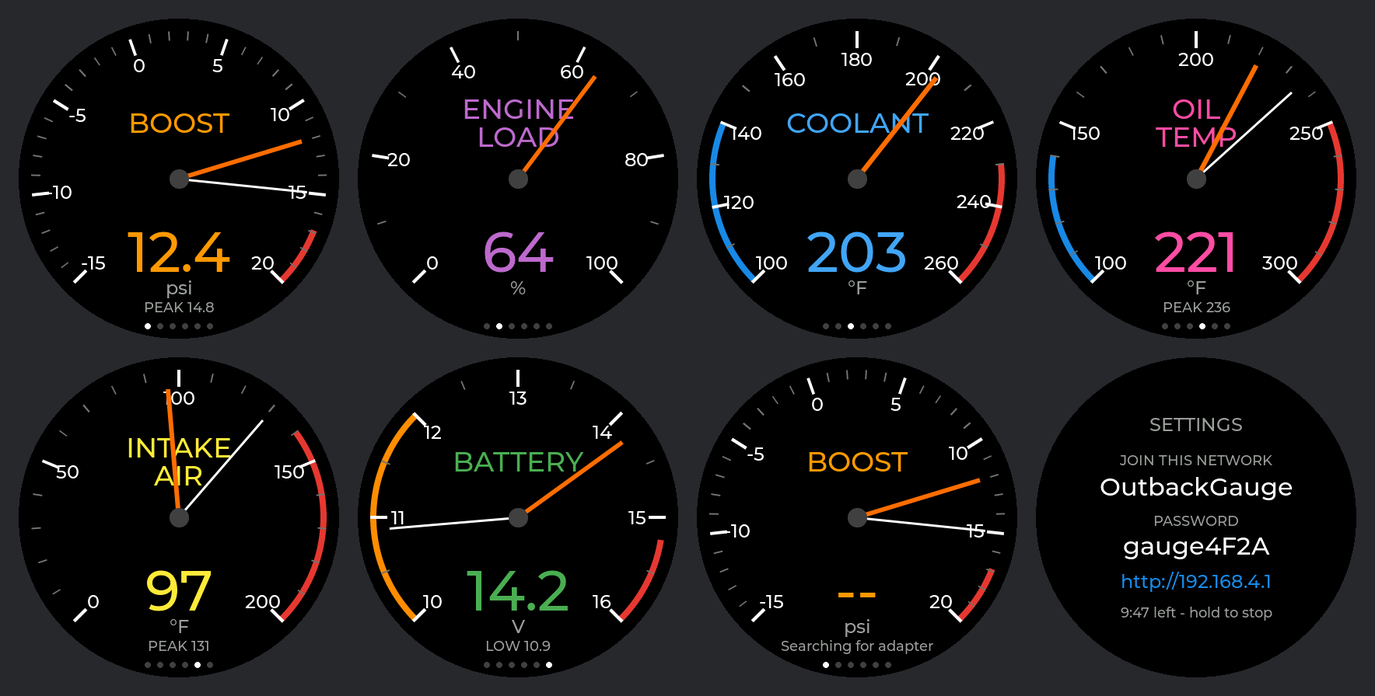
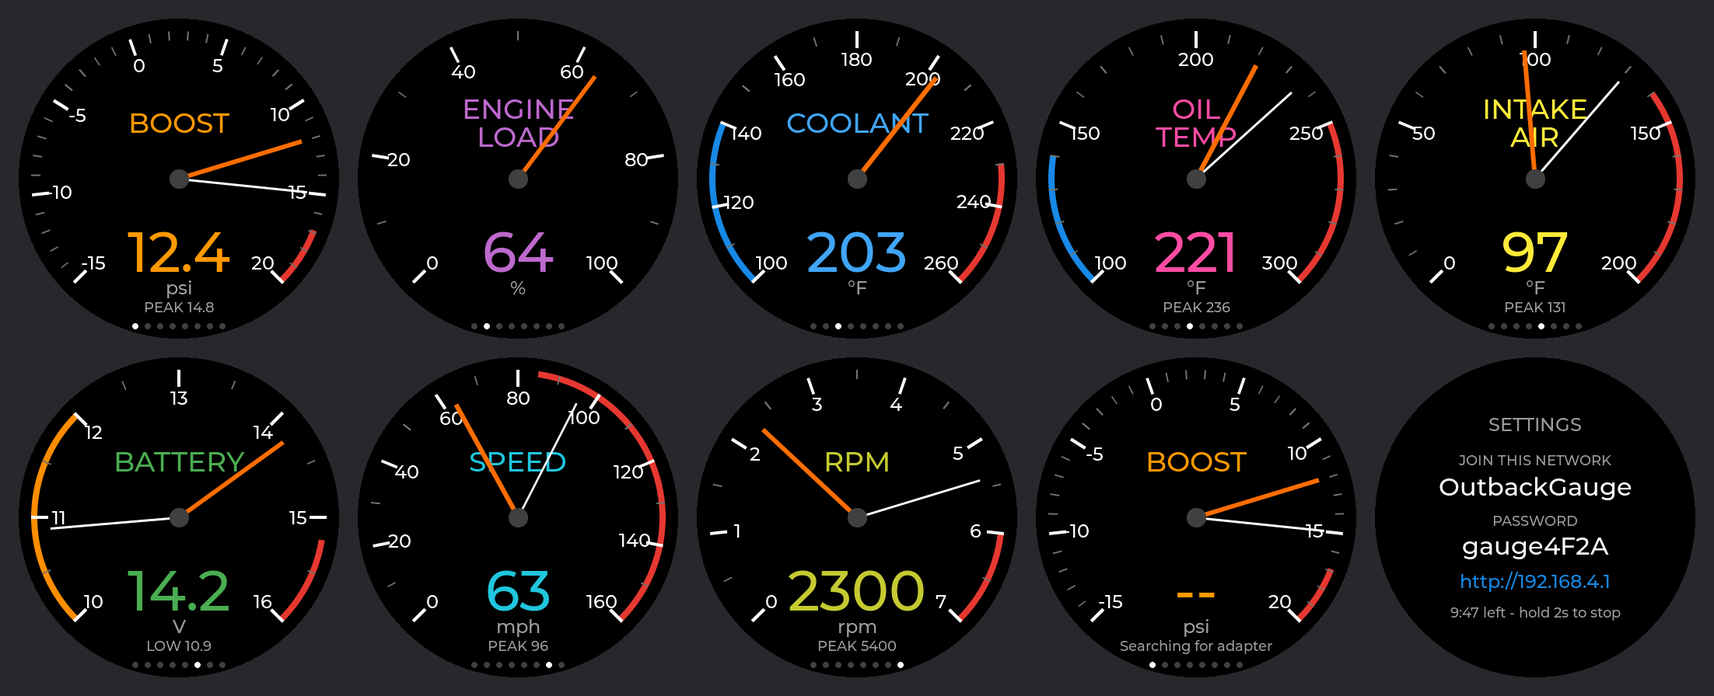
Add speed and tachometer pages with peak needles and warning limits
Speed (PID 0x0D, mph) and rpm (0x0C, scale in thousands) join the rotation
after battery. Both track a peak that survives a reboot, and carry a
settable warning limit (85 mph, 6000 rpm by default). Settings saved before
the limits existed still load; the new gauges start out shown.

diff --git a/docs/settings-page.html b/docs/settings-page.html
@@ -1,1 +1,1 @@
-<!doctype html><html><head><meta charset=utf-8><meta name=viewport content='width=device-width,initial-scale=1'><title>Outback Gauge</title><style>*{box-sizing:border-box}body{margin:0;padding:18px;background:#111;color:#eee;font:16px/1.4 -apple-system,system-ui,Roboto,sans-serif}main{max-width:30rem;margin:0 auto}h1{font-size:1.25rem;margin:0}p.sub{margin:.2rem 0 1.4rem;color:#888;font-size:.85rem}h2{font-size:.72rem;text-transform:uppercase;letter-spacing:.09em;color:#888;margin:1.6rem 0 .3rem;border-bottom:1px solid #2a2a2a;padding-bottom:.4rem}label{display:flex;align-items:center;gap:.75rem;padding:.5rem 0}label span{flex:1}label em{color:#777;font-style:normal;font-size:.8rem;min-width:2.4rem}input[type=number]{width:5.5rem;padding:.5rem;background:#1c1c1c;border:1px solid #333;border-radius:6px;color:#fff;font-size:1rem;text-align:right}select{padding:.5rem;background:#1c1c1c;border:1px solid #333;border-radius:6px;color:#fff;font-size:1rem}input[type=range]{flex:1;accent-color:#FF6D00}table{width:100%;border-collapse:collapse;margin-top:.3rem}th{font-size:.7rem;font-weight:400;text-transform:uppercase;letter-spacing:.06em;color:#888;text-align:center;padding:.3rem .25rem}th:first-child,td:first-child{text-align:left}td{padding:.45rem .25rem;border-top:1px solid #222;text-align:center;vertical-align:middle}td input[type=number]{width:4.6rem;padding:.4rem}td input[type=radio]{width:1.35rem;height:1.35rem;accent-color:#FF6D00}.lim{display:flex;align-items:center;justify-content:center;gap:.3rem;margin:.15rem 0}.lim em{min-width:1.6rem;text-align:left;white-space:nowrap}td input[type=number]{width:4.2rem}.none{color:#555}td input:disabled{opacity:.25}button.ghost.arm{background:#7a2c2c;color:#fff;border-color:#a33}#toast{position:fixed;left:50%;bottom:1.2rem;transform:translateX(-50%);padding:.7rem 1.3rem;border-radius:8px;background:#14301b;border:1px solid #2c5c38;color:#a9e0bb;display:none;z-index:9;box-shadow:0 4px 18px #000a}#toast.bad{background:#3a1616;border-color:#7a2c2c;color:#f2b2b2}input[type=checkbox]{width:1.35rem;height:1.35rem;accent-color:#FF6D00}button{width:100%;padding:.85rem;margin-top:1.2rem;border:0;border-radius:8px;background:#FF6D00;color:#111;font-size:1rem;font-weight:600}button.ghost{background:#1c1c1c;color:#ccc;border:1px solid #333;font-weight:400;margin-top:.5rem}.note{background:#14301b;border:1px solid #2c5c38;color:#a9e0bb;padding:.6rem .8rem;border-radius:6px;margin-bottom:1.2rem;font-size:.9rem}.warn{color:#FB8C00;font-size:.78rem;margin:.5rem 0 0}</style></head><body><main><h1>Outback Gauge</h1><p class=sub>Settings are saved on the gauge and survive a reboot.</p><div class=note>Saved.</div><form method=POST action=/save data-toast="Saved"><h2>Gauges</h2><table><tr><th>Gauge<th>Warns at<th>Show<th>Start on</tr><tr data-g><td>Boost<td><span class=lim><input type=number name=boost min=0 max=20 step=0.5 value=17.0><em>psi</em></span><td><input type=checkbox name=pg0 checked><td><input type=radio name=start value=0 checked></tr><tr data-g><td>Engine load<td><span class=none>none</span><td><input type=checkbox name=pg1 checked><td><input type=radio name=start value=1></tr><tr data-g><td>Coolant<td><span class=lim><input type=number name=cool min=150 max=260 step=1 value=230><em>&deg;F</em></span><td><input type=checkbox name=pg2 checked><td><input type=radio name=start value=2></tr><tr data-g><td>Oil temperature<td><span class=lim><input type=number name=oil min=180 max=300 step=1 value=250><em>&deg;F</em></span><td><input type=checkbox name=pg3 checked><td><input type=radio name=start value=3></tr><tr data-g><td>Intake air<td><span class=lim><input type=number name=intake min=60 max=200 step=1 value=140><em>&deg;F</em></span><td><input type=checkbox name=pg4 checked><td><input type=radio name=start value=4></tr><tr data-g><td>Battery<td><span class=lim><input type=number name=vlo min=10 max=14 step=0.1 value=12.0><em>V lo</em></span><span class=lim><input type=number name=vhi min=13 max=16 step=0.1 value=15.2><em>V hi</em></span><td><input type=checkbox name=pg5 checked><td><input type=radio name=start value=5></tr><tr><td colspan=3>The last one I tapped to<td><input type=radio name=start value=255></tr></table><p class=warn>Unticked gauges are never shown, not even for a warning. The start gauge falls back to the first one shown if you hide it.</p><h2>Rotation</h2><label class=chk><input type=checkbox name=auto checked><span>Cycle through the gauges</span></label><label><span>Seconds per gauge</span><input type=number name=secs min=1 max=60 step=0.5 value=3.0><em>s</em></label><p class=warn>Tap the screen to move on early. Hold to open this page.</p><h2>Display</h2><label><span>Backlight</span><input type=range name=bl min=5 max=100 step=5 value=80 oninput="this.nextElementSibling.textContent=this.value+'%'"><em>80%</em></label><button>Save</button></form><form method=POST action=/defaults data-toast="Defaults restored" data-ask="Tap again to restore defaults" data-confirm="Put every setting back to its default?"><button class=ghost>Restore defaults</button></form><form method=POST action=/reboot data-ask="Tap again to reboot" data-confirm="Reboot the gauge? The Wi-Fi drops, so hold the screen to bring it back."><button class=ghost>Reboot the gauge</button></form><form method=POST action=/stop data-ask="Tap again to turn Wi-Fi off" data-confirm="Turn Wi-Fi off? Hold the screen to bring it back."><button class=ghost>Turn Wi-Fi off</button></form></main><div id=toast></div><script>function sync(){var rows=document.querySelectorAll('tr[data-g]'),on=0,pick=null;rows.forEach(function(r){var c=r.querySelector('input[type=checkbox]'),d=r.querySelector('input[type=radio]');d.disabled=!c.checked;if(c.checked){on++;if(!pick)pick=d}if(d.disabled&&d.checked){d.checked=false;if(pick)pick.checked=true}});var sel=document.querySelector('input[name=start]:checked');if(!sel){(pick||document.querySelector('input[name=start]:not(:disabled)')).checked=true}}function toast(t,bad){var e=document.getElementById('toast');e.textContent=t;e.className=bad?'bad':'';e.style.display='block';clearTimeout(toast.t);toast.t=setTimeout(function(){e.style.display='none'},3000)}document.addEventListener('change',function(e){if(e.target.type=='checkbox'&&e.target.name&&e.target.name.indexOf('pg')==0){if(!document.querySelector('input[name^=pg]:checked'))e.target.checked=true;sync()}});function disarm(f){var b=f.querySelector('button');if(f.armed){f.armed=0;b.textContent=b.getAttribute('data-t');b.className='ghost';if(f.m)f.m.remove()}}document.addEventListener('submit',function(e){var f=e.target,c=f.getAttribute('data-confirm');if(c){var b=f.querySelector('button');if(!f.armed){e.preventDefault();f.armed=1;b.setAttribute('data-t',b.textContent);b.textContent=f.getAttribute('data-ask');b.className='ghost arm';var m=document.createElement('p');m.className='warn';m.textContent=c;f.appendChild(m);f.m=m;clearTimeout(f.t);f.t=setTimeout(function(){disarm(f)},5000);return}clearTimeout(f.t);if(f.m)f.m.remove()}var t=f.getAttribute('data-toast');if(!t)return;e.preventDefault();fetch(f.action,{method:'POST',body:new URLSearchParams(new FormData(f))}).then(function(r){return r.text()}).then(function(h){var y=scrollY;document.body.innerHTML=new DOMParser().parseFromString(h,'text/html').body.innerHTML;var n=document.querySelector('.note');if(n)n.remove();sync();scrollTo(0,y);toast(t)}).catch(function(){toast('Could not reach the gauge',1)})});sync();</script></body></html>
+<!doctype html><html><head><meta charset=utf-8><meta name=viewport content='width=device-width,initial-scale=1'><title>Outback Gauge</title><style>*{box-sizing:border-box}body{margin:0;padding:18px;background:#111;color:#eee;font:16px/1.4 -apple-system,system-ui,Roboto,sans-serif}main{max-width:30rem;margin:0 auto}h1{font-size:1.25rem;margin:0}p.sub{margin:.2rem 0 1.4rem;color:#888;font-size:.85rem}h2{font-size:.72rem;text-transform:uppercase;letter-spacing:.09em;color:#888;margin:1.6rem 0 .3rem;border-bottom:1px solid #2a2a2a;padding-bottom:.4rem}label{display:flex;align-items:center;gap:.75rem;padding:.5rem 0}label span{flex:1}label em{color:#777;font-style:normal;font-size:.8rem;min-width:2.4rem}input[type=number]{width:5.5rem;padding:.5rem;background:#1c1c1c;border:1px solid #333;border-radius:6px;color:#fff;font-size:1rem;text-align:right}select{padding:.5rem;background:#1c1c1c;border:1px solid #333;border-radius:6px;color:#fff;font-size:1rem}input[type=range]{flex:1;accent-color:#FF6D00}table{width:100%;border-collapse:collapse;margin-top:.3rem}th{font-size:.7rem;font-weight:400;text-transform:uppercase;letter-spacing:.06em;color:#888;text-align:center;padding:.3rem .25rem}th:first-child,td:first-child{text-align:left}td{padding:.45rem .25rem;border-top:1px solid #222;text-align:center;vertical-align:middle}td input[type=number]{width:4.6rem;padding:.4rem}td input[type=radio]{width:1.35rem;height:1.35rem;accent-color:#FF6D00}.lim{display:flex;align-items:center;justify-content:center;gap:.3rem;margin:.15rem 0}.lim em{min-width:1.6rem;text-align:left;white-space:nowrap}td input[type=number]{width:4.2rem}.none{color:#555}td input:disabled{opacity:.25}button.ghost.arm{background:#7a2c2c;color:#fff;border-color:#a33}#toast{position:fixed;left:50%;bottom:1.2rem;transform:translateX(-50%);padding:.7rem 1.3rem;border-radius:8px;background:#14301b;border:1px solid #2c5c38;color:#a9e0bb;display:none;z-index:9;box-shadow:0 4px 18px #000a}#toast.bad{background:#3a1616;border-color:#7a2c2c;color:#f2b2b2}input[type=checkbox]{width:1.35rem;height:1.35rem;accent-color:#FF6D00}button{width:100%;padding:.85rem;margin-top:1.2rem;border:0;border-radius:8px;background:#FF6D00;color:#111;font-size:1rem;font-weight:600}button.ghost{background:#1c1c1c;color:#ccc;border:1px solid #333;font-weight:400;margin-top:.5rem}.note{background:#14301b;border:1px solid #2c5c38;color:#a9e0bb;padding:.6rem .8rem;border-radius:6px;margin-bottom:1.2rem;font-size:.9rem}.warn{color:#FB8C00;font-size:.78rem;margin:.5rem 0 0}</style></head><body><main><h1>Outback Gauge</h1><p class=sub>Settings are saved on the gauge and survive a reboot.</p><div class=note>Saved.</div><form method=POST action=/save data-toast="Saved"><h2>Gauges</h2><table><tr><th>Gauge<th>Warns at<th>Show<th>Start on</tr><tr data-g><td>Boost<td><span class=lim><input type=number name=boost min=0 max=20 step=0.5 value=17.0><em>psi</em></span><td><input type=checkbox name=pg0 checked><td><input type=radio name=start value=0 checked></tr><tr data-g><td>Engine load<td><span class=none>none</span><td><input type=checkbox name=pg1 checked><td><input type=radio name=start value=1></tr><tr data-g><td>Coolant<td><span class=lim><input type=number name=cool min=150 max=260 step=1 value=230><em>&deg;F</em></span><td><input type=checkbox name=pg2 checked><td><input type=radio name=start value=2></tr><tr data-g><td>Oil temperature<td><span class=lim><input type=number name=oil min=180 max=300 step=1 value=250><em>&deg;F</em></span><td><input type=checkbox name=pg3 checked><td><input type=radio name=start value=3></tr><tr data-g><td>Intake air<td><span class=lim><input type=number name=intake min=60 max=200 step=1 value=140><em>&deg;F</em></span><td><input type=checkbox name=pg4 checked><td><input type=radio name=start value=4></tr><tr data-g><td>Battery<td><span class=lim><input type=number name=vlo min=10 max=14 step=0.1 value=12.0><em>V lo</em></span><span class=lim><input type=number name=vhi min=13 max=16 step=0.1 value=15.2><em>V hi</em></span><td><input type=checkbox name=pg5 checked><td><input type=radio name=start value=5></tr><tr data-g><td>Speed<td><span class=lim><input type=number name=speed min=20 max=160 step=1 value=85><em>mph</em></span><td><input type=checkbox name=pg6 checked><td><input type=radio name=start value=6></tr><tr data-g><td>Tachometer<td><span class=lim><input type=number name=rpm min=3000 max=7000 step=100 value=6000><em>rpm</em></span><td><input type=checkbox name=pg7 checked><td><input type=radio name=start value=7></tr><tr><td colspan=3>The last one I tapped to<td><input type=radio name=start value=255></tr></table><p class=warn>Unticked gauges are never shown, not even for a warning. The start gauge falls back to the first one shown if you hide it.</p><h2>Rotation</h2><label class=chk><input type=checkbox name=auto checked><span>Cycle through the gauges</span></label><label><span>Seconds per gauge</span><input type=number name=secs min=1 max=60 step=0.5 value=3.0><em>s</em></label><p class=warn>Tap the screen to move on early. Hold for 2 seconds to open this page.</p><h2>Display</h2><label><span>Backlight</span><input type=range name=bl min=5 max=100 step=5 value=80 oninput="this.nextElementSibling.textContent=this.value+'%'"><em>80%</em></label><button>Save</button></form><form method=POST action=/defaults data-toast="Defaults restored" data-ask="Tap again to restore defaults" data-confirm="Put every setting back to its default?"><button class=ghost>Restore defaults</button></form><form method=POST action=/reboot data-ask="Tap again to reboot" data-confirm="Reboot the gauge? The Wi-Fi drops, so hold the screen for 2 seconds to bring it back."><button class=ghost>Reboot the gauge</button></form><form method=POST action=/stop data-ask="Tap again to turn Wi-Fi off" data-confirm="Turn Wi-Fi off? Hold the screen to bring it back."><button class=ghost>Turn Wi-Fi off</button></form></main><div id=toast></div><script>function sync(){var rows=document.querySelectorAll('tr[data-g]'),on=0,pick=null;rows.forEach(function(r){var c=r.querySelector('input[type=checkbox]'),d=r.querySelector('input[type=radio]');d.disabled=!c.checked;if(c.checked){on++;if(!pick)pick=d}if(d.disabled&&d.checked){d.checked=false;if(pick)pick.checked=true}});var sel=document.querySelector('input[name=start]:checked');if(!sel){(pick||document.querySelector('input[name=start]:not(:disabled)')).checked=true}}function toast(t,bad){var e=document.getElementById('toast');e.textContent=t;e.className=bad?'bad':'';e.style.display='block';clearTimeout(toast.t);toast.t=setTimeout(function(){e.style.display='none'},3000)}document.addEventListener('change',function(e){if(e.target.type=='checkbox'&&e.target.name&&e.target.name.indexOf('pg')==0){if(!document.querySelector('input[name^=pg]:checked'))e.target.checked=true;sync()}});function disarm(f){var b=f.querySelector('button');if(f.armed){f.armed=0;b.textContent=b.getAttribute('data-t');b.className='ghost';if(f.m)f.m.remove()}}document.addEventListener('submit',function(e){var f=e.target,c=f.getAttribute('data-confirm');if(c){var b=f.querySelector('button');if(!f.armed){e.preventDefault();f.armed=1;b.setAttribute('data-t',b.textContent);b.textContent=f.getAttribute('data-ask');b.className='ghost arm';var m=document.createElement('p');m.className='warn';m.textContent=c;f.appendChild(m);f.m=m;clearTimeout(f.t);f.t=setTimeout(function(){disarm(f)},5000);return}clearTimeout(f.t);if(f.m)f.m.remove()}var t=f.getAttribute('data-toast');if(!t)return;e.preventDefault();fetch(f.action,{method:'POST',body:new URLSearchParams(new FormData(f))}).then(function(r){return r.text()}).then(function(h){var y=scrollY;document.body.innerHTML=new DOMParser().parseFromString(h,'text/html').body.innerHTML;var n=document.querySelector('.note');if(n)n.remove();sync();scrollTo(0,y);toast(t)}).catch(function(){toast('Could not reach the gauge',1)})});sync();</script></body></html>

diff --git a/src/ui.cpp b/src/ui.cpp
@@ -18,7 +18,7 @@ namespace {
 constexpr lv_coord_t C = LCD_SIZE / 2;  // screen center
 constexpr uint32_t WHITE = 0xFFFFFF, GREY = 0x9E9E9E, RED = 0xE53935, AMBER = 0xFB8C00, BLUE = 0x1E88E5;
 constexpr uint32_t TEXT_GREEN = 0x4CAF50, TEXT_ORANGE = 0xFF9800, TEXT_BLUE = 0x42A5F5, TEXT_PINK = 0xFF4FA3,
-                   TEXT_YELLOW = 0xFFEB3B, TEXT_PURPLE = 0xBA68C8;
+                   TEXT_YELLOW = 0xFFEB3B, TEXT_PURPLE = 0xBA68C8, TEXT_TEAL = 0x26C6DA, TEXT_LIME = 0xC0CA33;
 #define DEG "\xC2\xB0"
 
 // A coloured arc on the scale. One endpoint can be driven by a setting, so the
@@ -45,6 +45,8 @@ const GaugeCfg LOAD = {"ENGINE\nLOAD", "%", "%.0f", 0, 100, 1, 11, 2, {{}, {}}, 
 const GaugeCfg COOLANT = {"COOLANT", DEG "F", "%.0f", 100, 260, 1, 17, 2, {{100, 140, BLUE}, {0, 260, RED, &Settings::coolantWarnF}}, Focus::Coolant, TEXT_BLUE, 0};
 const GaugeCfg OIL = {"OIL\nTEMP", DEG "F", "%.0f", 100, 300, 1, 21, 5, {{100, 140, BLUE}, {0, 300, RED, &Settings::oilWarnF}}, Focus::Oil, TEXT_PINK, 1};
 const GaugeCfg INTAKE = {"INTAKE\nAIR", DEG "F", "%.0f", 0, 200, 1, 21, 5, {{0, 200, RED, &Settings::intakeWarnF}, {}}, Focus::Intake, TEXT_YELLOW, 1};
+const GaugeCfg SPEED = {"SPEED", "mph", "%.0f", 0, 160, 1, 17, 2, {{0, 160, RED, &Settings::speedWarnMph}, {}}, Focus::Speed, TEXT_TEAL, 1};
+const GaugeCfg TACH = {"RPM", "rpm", "%.0f", 0, 7000, 1, 15, 2, {{0, 7000, RED, &Settings::rpmWarn}, {}}, Focus::Rpm, TEXT_LIME, 1};
 const GaugeCfg VOLTS = {"BATTERY", "V", "%.1f", 10, 16, 10, 13, 2, {{10, 0, AMBER, &Settings::voltsLowWarn, false}, {0, 16, RED, &Settings::voltsHighWarn}}, Focus::Volts, TEXT_GREEN, -1};
 
 struct Gauge {
@@ -59,7 +61,7 @@ struct SettingsPage {
   lv_obj_t *screen, *caption, *headline, *caption2, *detail, *url, *foot;
 };
 
-enum : uint8_t { PAGE_BOOST, PAGE_LOAD, PAGE_COOLANT, PAGE_OIL, PAGE_INTAKE, PAGE_VOLTS, PAGE_COUNT, PAGE_SETTINGS = PAGE_COUNT };
+enum : uint8_t { PAGE_BOOST, PAGE_LOAD, PAGE_COOLANT, PAGE_OIL, PAGE_INTAKE, PAGE_VOLTS, PAGE_SPEED, PAGE_TACH, PAGE_COUNT, PAGE_SETTINGS = PAGE_COUNT };
 
 Gauge gauges[PAGE_COUNT];
 SettingsPage settingsPage;
@@ -131,7 +133,7 @@ const char *statusFor(const Telemetry &t, char *buf, size_t n) {
 
 // ---- round gauges ----------------------------------------------------------
 
-// The meter only knows integers, so scales with mul > 1 relabel their ticks.
+// The meter only knows integers, so scales with mul > 1 relabel their ticks; so does the tach, in thousands.
 // LVGL 8.3 leaves text_length at 0 for meter ticks, so point the label at our
 // own buffer instead of writing into theirs; it's drawn before the next tick.
 void scaledTickLabels(lv_event_t *e) {
@@ -139,7 +141,8 @@ void scaledTickLabels(lv_event_t *e) {
   auto *cfg = (const GaugeCfg *)lv_event_get_user_data(e);
   if (dsc->class_p != &lv_meter_class || dsc->type != LV_METER_DRAW_PART_TICK || !dsc->text) return;
   static char buf[8];
-  lv_snprintf(buf, sizeof buf, "%d", (int)(dsc->value / cfg->mul));
+  const int div = cfg->max >= 1000 ? 1000 : cfg->mul;   // rpm is labelled in thousands
+  lv_snprintf(buf, sizeof buf, "%d", (int)(dsc->value / div));
   dsc->text = buf;
 }
 
@@ -197,7 +200,7 @@ Gauge makeGauge(const GaugeCfg &cfg) {
   }
   g.needle = lv_meter_add_needle_line(g.meter, scale, 6, lv_color_hex(0xFF6D00), -24);
   lv_meter_set_indicator_value(g.meter, g.needle, cfg.min * cfg.mul);
-  if (cfg.mul > 1) lv_obj_add_event_cb(g.meter, scaledTickLabels, LV_EVENT_DRAW_PART_BEGIN, (void *)&cfg);
+  if (cfg.mul > 1 || cfg.max >= 1000) lv_obj_add_event_cb(g.meter, scaledTickLabels, LV_EVENT_DRAW_PART_BEGIN, (void *)&cfg);
 
   g.value = label(g.screen, &font_big, WHITE, 0, 94);
   lv_label_set_text(label(g.screen, &lv_font_montserrat_24, GREY, 0, 140), cfg.unit);
@@ -332,6 +335,8 @@ void ui_init() {
   gauges[PAGE_OIL] = makeGauge(OIL);
   gauges[PAGE_INTAKE] = makeGauge(INTAKE);
   gauges[PAGE_VOLTS] = makeGauge(VOLTS);
+  gauges[PAGE_SPEED] = makeGauge(SPEED);
+  gauges[PAGE_TACH] = makeGauge(TACH);
   loadPeaks();
   makeSettings();
   for (uint8_t i = 0; i < PAGE_COUNT; i++) addPageDots(gauges[i].screen, i, PAGE_COUNT);
@@ -354,6 +359,8 @@ static bool warning(uint8_t p, const Telemetry &t, const Settings &s) {
     case PAGE_OIL: return fresh(t.oilAt) && t.oilF >= s.oilWarnF;
     case PAGE_INTAKE: return fresh(t.intakeAt) && t.intakeF >= s.intakeWarnF;
     case PAGE_VOLTS: return fresh(t.voltsAt) && (t.volts < s.voltsLowWarn || t.volts > s.voltsHighWarn);
+    case PAGE_SPEED: return fresh(t.speedAt) && t.speedMph >= s.speedWarnMph;
+    case PAGE_TACH: return fresh(t.rpmAt) && t.rpm >= s.rpmWarn;
   }
   return false;  // engine load has no warning
 }
@@ -411,6 +418,8 @@ static bool reading(uint8_t p, const Telemetry &t, float &v) {
     case PAGE_OIL: v = t.oilF, at = t.oilAt; break;
     case PAGE_INTAKE: v = t.intakeF, at = t.intakeAt; break;
     case PAGE_VOLTS: v = t.volts, at = t.voltsAt; break;
+    case PAGE_SPEED: v = t.speedMph, at = t.speedAt; break;
+    case PAGE_TACH: v = t.rpm, at = t.rpmAt; break;
   }
   return fresh(at);
 }

diff --git a/src/settings.cpp b/src/settings.cpp
@@ -10,7 +10,9 @@ namespace {
 // Stored as one blob rather than a key per field: the whole struct round-trips
 // in two NVS calls, and a version mismatch after a firmware change falls back
 // to defaults instead of leaving half the fields stale. Bump on any layout change.
-constexpr uint16_t LAYOUT = 4;
+constexpr uint16_t LAYOUT = 6;
+constexpr uint16_t LAYOUT_SIX_GAUGES = 4;   // saved before speed and rpm existed
+constexpr uint16_t LAYOUT_NO_LIMITS = 5;    // saved before they had warning limits
 
 struct Stored {
   uint16_t layout;
@@ -39,6 +41,8 @@ void sanitize(Settings &s) {
   s.voltsLowWarn = clampf(s.voltsLowWarn, 10, 14);
   s.voltsHighWarn = clampf(s.voltsHighWarn, 13, 16);
   s.autoRotateSecs = clampf(s.autoRotateSecs, 1, 60);
+  s.speedWarnMph = clampf(s.speedWarnMph, 20, 160);
+  s.rpmWarn = clampf(s.rpmWarn, 3000, 7000);
   s.pageMask &= (1u << GAUGE_PAGES) - 1;
   if (!s.pageMask) s.pageMask = 1;                       // something has to be showing
   if (s.startPage != START_LAST && s.startPage >= GAUGE_PAGES) s.startPage = 0;
@@ -65,6 +69,8 @@ Settings settings_defaults() {
   s.autoRotateSecs = AUTO_ROTATE_SECS;
   s.pageMask = PAGE_MASK;
   s.startPage = START_PAGE;
+  s.speedWarnMph = SPEED_WARN_MPH;
+  s.rpmWarn = RPM_WARN;
   return s;
 }
 
@@ -77,17 +83,22 @@ void settings_load() {
 
   Preferences prefs;
   prefs.begin("gauge", true);
-  Stored st;
+  Stored st{LAYOUT, live};   // anything an older blob doesn't carry keeps its default
   const size_t n = prefs.getBytes("cfg", &st, sizeof st);
   prefs.end();
 
-  if (n == sizeof st && st.layout == LAYOUT) {
+  // Blobs from before the speed and rpm limits end where those fields begin.
+  const size_t oldBytes = offsetof(Stored, s) + offsetof(Settings, speedWarnMph);
+  const bool known = (n == sizeof st && st.layout == LAYOUT) ||
+                     (n == oldBytes && (st.layout == LAYOUT_NO_LIMITS || st.layout == LAYOUT_SIX_GAUGES));
+  if (known) {
     live = st.s;
+    if (st.layout == LAYOUT_SIX_GAUGES) live.pageMask |= 0xC0;   // the new gauges start out shown
     sanitize(live);
     Serial.println("[CFG] loaded saved settings");
   } else if (n) {
     Serial.printf("[CFG] saved settings are layout %u, wanted %u; using defaults\n",
-                  n == sizeof st ? st.layout : 0, LAYOUT);
+                  n >= sizeof st.layout ? st.layout : 0, LAYOUT);
   }
 }
 

diff --git a/src/obd.cpp b/src/obd.cpp
@@ -54,7 +54,8 @@ void simulate() {
       s.intakeF = 88.0f + 18.0f * throttle;
       s.volts = 14.1f + 0.1f * sinf(t * 1.3f);
       s.rpm = 800.0f + throttle * 4500.0f;
-      s.boostAt = s.loadAt = s.coolantAt = s.oilAt = s.intakeAt = s.voltsAt = s.rpmAt = now;
+      s.speedMph = throttle * 85.0f;
+      s.boostAt = s.loadAt = s.coolantAt = s.oilAt = s.intakeAt = s.voltsAt = s.rpmAt = s.speedAt = now;
     });
     vTaskDelay(pdMS_TO_TICKS(50));
   }
@@ -286,7 +287,7 @@ bool ecuResponds(uint32_t timeoutMs) {
 
 // ---- polling ---------------------------------------------------------------
 
-enum class Item : uint8_t { Map, Load, Coolant, Oil, Intake, Volts, Rpm };
+enum class Item : uint8_t { Map, Load, Coolant, Oil, Intake, Volts, Rpm, Speed };
 
 float baroKpa = 101.3f;
 
@@ -305,6 +306,7 @@ bool itemSupported(Item item) {
     case Item::Oil: return pidSupported(0x5C);
     case Item::Intake: return pidSupported(0x0F) || pidSupported(0x68);
     case Item::Rpm: return pidSupported(0x0C);
+    case Item::Speed: return pidSupported(0x0D);
     case Item::Volts: return true;  // the adapter measures this itself
   }
   return true;
@@ -394,6 +396,10 @@ bool poll(Item item) {
       if (!readPid(0x0C, b, 2)) return false;
       edit([&](Telemetry &t) { t.rpm = (b[0] * 256 + b[1]) / 4.0f, t.rpmAt = now; });
       return true;
+    case Item::Speed:
+      if (!readPid(0x0D, b, 1)) return false;
+      edit([&](Telemetry &t) { t.speedMph = b[0] * 0.621371f, t.speedAt = now; });
+      return true;
     case Item::Volts: {
       String r;
       if (!command("ATRV", r, 600)) return false;
@@ -425,6 +431,8 @@ bool focusItem(Focus f, Item &out) {
     case Focus::Oil: out = Item::Oil; return true;
     case Focus::Intake: out = Item::Intake; return true;
     case Focus::Volts: out = Item::Volts; return true;
+    case Focus::Speed: out = Item::Speed; return true;
+    case Focus::Rpm: out = Item::Rpm; return true;
     default: return false;
   }
 }
@@ -441,7 +449,7 @@ void runSession() {
   }
   if (ecu) discoverPids();
 
-  static const Item slowItems[] = {Item::Load, Item::Coolant, Item::Oil, Item::Intake, Item::Volts, Item::Rpm};
+  static const Item slowItems[] = {Item::Load, Item::Coolant, Item::Oil, Item::Intake, Item::Volts, Item::Rpm, Item::Speed};
   size_t slowIdx = 0;
   uint32_t lastSlow = 0, lastBaro = 0;
   int failures = 0;

diff --git a/tools/preview/harness.cpp b/tools/preview/harness.cpp
@@ -31,7 +31,7 @@ static void flush(lv_disp_drv_t *d, const lv_area_t *a, lv_color_t *px) {
 }
 
 static std::vector<uint8_t> sheet;
-static const int COLS = 4, ROWS = 2, GAP = 24, W = COLS * N + (COLS + 1) * GAP, H = ROWS * N + (ROWS + 1) * GAP;
+static const int COLS = 5, ROWS = 2, GAP = 24, W = COLS * N + (COLS + 1) * GAP, H = ROWS * N + (ROWS + 1) * GAP;
 static void capture(int slot) {
   lv_obj_invalidate(lv_scr_act());
   lv_refr_now(nullptr);
@@ -61,20 +61,22 @@ int main() {
   uint32_t s = now_ms - 10;
   t.boostPsi = 14.8f; t.boostAt = s; ui_update(t);   // sets the peak
   t.oilF = 236; t.intakeF = 131; t.volts = 10.9f; t.oilAt = t.intakeAt = t.voltsAt = s;   // the highs and the low
+  t.speedMph = 96; t.rpm = 5400; t.speedAt = t.rpmAt = s;
   ui_update(t);
+  t.speedMph = 63; t.rpm = 2300;
   t.boostPsi = 12.4f; t.loadPct = 64; t.coolantF = 203; t.oilF = 221; t.intakeF = 97; t.volts = 14.2f;
   t.loadAt = t.coolantAt = t.oilAt = t.intakeAt = t.voltsAt = s;
 
-  for (int page = 0; page < 6; page++) {
+  for (int page = 0; page < 8; page++) {
     ui_update(t); capture(page); ui_nextPage();
   }
   // Boost page again while still searching for the adapter.
   Telemetry idle; idle.state = ObdState::Scanning;
-  ui_update(idle); capture(6);
+  ui_update(idle); capture(8);
 
   // Settings page with the access point up, which is the crowded layout.
   ui_longPress();
-  ui_update(t); capture(7);
+  ui_update(t); capture(9);
 
   FILE *f = fopen("gauges.ppm", "wb");
   fprintf(f, "P6\n%d %d\n255\n", W, H); fwrite(sheet.data(), 1, sheet.size(), f); fclose(f);

diff --git a/src/config.h b/src/config.h
@@ -24,10 +24,10 @@ static const char *const OBD_NAME_HINTS[] = {"obdlink", "obd", "vlink", "vgate",
 #define DISPLAY_MOUNT_DEG 90
 
 // Which gauge the screen comes up on at power-up (0 boost, 1 engine load, 2 coolant,
-// 3 oil temperature, 4 intake air, 5 battery; 255 = the last one you tapped to),
-// and which gauges are shown at all (one bit each, in that order; 0x3F is all six).
+// 3 oil temperature, 4 intake air, 5 battery, 6 speed, 7 rpm; 255 = the last one you tapped to),
+// and which gauges are shown at all (one bit each, in that order; 0xFF is all eight).
 #define START_PAGE 0
-#define PAGE_MASK 0x3F
+#define PAGE_MASK 0xFF
 
 // Step through the gauges on a timer. A tap still moves on early.
 #define AUTO_ROTATE 1
@@ -40,6 +40,8 @@ static const char *const OBD_NAME_HINTS[] = {"obdlink", "obd", "vlink", "vgate",
 #define INTAKE_WARN_F 140.0f
 #define VOLTS_LOW_WARN 12.0f
 #define VOLTS_HIGH_WARN 15.2f
+#define SPEED_WARN_MPH 85.0f
+#define RPM_WARN 6000.0f
 
 // Settings access point. Compile-time only: it has to be reachable before you
 // can change anything. How long it stays up with no requests before shutting

diff --git a/src/webpage.cpp b/src/webpage.cpp
@@ -42,7 +42,7 @@ void check(String &o, const char *id, const char *label, bool on) {
 }
 
 // In the order of the pages in ui.cpp.
-const char *const PAGE_NAMES[GAUGE_PAGES] = {"Boost", "Engine load", "Coolant", "Oil temperature", "Intake air", "Battery"};
+const char *const PAGE_NAMES[GAUGE_PAGES] = {"Boost", "Engine load", "Coolant", "Oil temperature", "Intake air", "Battery", "Speed", "Tachometer"};
 
 String render(const Settings &s, const char *note) {
   String o;
@@ -113,6 +113,8 @@ String render(const Settings &s, const char *note) {
         limit(o, "vlo", "min=10 max=14 step=0.1", s.voltsLowWarn, 1, "V lo");
         limit(o, "vhi", "min=13 max=16 step=0.1", s.voltsHighWarn, 1, "V hi");
         break;
+      case 6: limit(o, "speed", "min=20 max=160 step=1", s.speedWarnMph, 0, "mph"); break;
+      case 7: limit(o, "rpm", "min=3000 max=7000 step=100", s.rpmWarn, 0, "rpm"); break;
       default: o += "<span class=none>none</span>";
     }
     o += "<td><input type=checkbox name=pg";

diff --git a/src/obd.h b/src/obd.h
@@ -12,7 +12,7 @@ enum class ObdState : uint8_t {
 };
 
 // Which reading to poll as fast as possible; the rest are polled in rotation.
-enum class Focus : uint8_t { Boost, Load, Coolant, Oil, Intake, Volts, None };
+enum class Focus : uint8_t { Boost, Load, Coolant, Oil, Intake, Volts, Speed, Rpm, None };
 
 // Timestamps are millis() of the last good reading, 0 if never read.
 struct Telemetry {
@@ -25,7 +25,8 @@ struct Telemetry {
   float intakeF = 0;
   float volts = 0;     // measured by the adapter at the OBD port
   float rpm = 0;
-  uint32_t boostAt = 0, loadAt = 0, coolantAt = 0, oilAt = 0, intakeAt = 0, voltsAt = 0, rpmAt = 0;
+  float speedMph = 0;
+  uint32_t boostAt = 0, loadAt = 0, coolantAt = 0, oilAt = 0, intakeAt = 0, voltsAt = 0, rpmAt = 0, speedAt = 0;
 };
 
 void obd_start();  // runs the BLE/ELM327 client on its own task (core 0)

diff --git a/src/settings.h b/src/settings.h
@@ -24,9 +24,13 @@ struct Settings {
 
   uint8_t pageMask;   // bit per gauge page, in the order of the pages in ui.cpp: set = shown
   uint8_t startPage;  // the page to come up on at power-up, or START_LAST for the last one tapped to
+
+  // Added after the rest, so a blob saved without them still loads (see settings_load).
+  float speedWarnMph;
+  float rpmWarn;
 };
 
-constexpr int GAUGE_PAGES = 6;             // keep in step with the page list in ui.cpp and webpage.cpp
+constexpr int GAUGE_PAGES = 8;             // keep in step with the page list in ui.cpp and webpage.cpp
 constexpr uint8_t START_LAST = 255;
 
 Settings settings_defaults();

diff --git a/src/webconfig.cpp b/src/webconfig.cpp
@@ -48,6 +48,8 @@ void handleSave() {
   s.intakeWarnF = argFloat("intake", s.intakeWarnF);
   s.voltsLowWarn = argFloat("vlo", s.voltsLowWarn);
   s.voltsHighWarn = argFloat("vhi", s.voltsHighWarn);
+  s.speedWarnMph = argFloat("speed", s.speedWarnMph);
+  s.rpmWarn = argFloat("rpm", s.rpmWarn);
   s.backlight = (uint8_t)argFloat("bl", s.backlight);
   // Unchecked boxes aren't posted at all, so presence is the value.
   s.autoRotate = server.hasArg("auto");

diff --git a/README.md b/README.md
@@ -19,10 +19,10 @@ adapter.
 
 The gauges cycle on their own every 3 seconds (adjustable, or off, on the
 settings page). **Tap** to go to the next one early; **double tap** to turn auto-rotate on or off
-(the status line says which, and the page stays where it was). Boost, oil temperature and intake air carry a thin white needle at the highest
+(the status line says which, and the page stays where it was). Boost, oil temperature, intake air, speed and rpm carry a thin white needle at the highest
 reading since the last reset, and battery one at the lowest (the status line
 says "PEAK" or "LOW" with the number). **Press and hold** (about half a second) on one of
-those gauges to start it over. Boost, oil and intake peaks survive a reboot (saved at most once a minute while driving); the battery low starts over each time, since cranking sets it. **Swipe up or down** for a brighter or dimmer screen (5, 20, 40, 60, 80 or 100%). The dots along the bottom show where you are. The Wi-Fi page chooses which
+those gauges to start it over. Boost, oil, intake, speed and rpm peaks survive a reboot (saved at most once a minute while driving); the battery low starts over each time, since cranking sets it. **Swipe up or down** for a brighter or dimmer screen (5, 20, 40, 60, 80 or 100%). The dots along the bottom show where you are. The Wi-Fi page chooses which
 gauge the screen starts on (or "the last one I tapped to") and which gauges are
 shown at all. The BOOT button does the same from the bench — a
 short press moves to the next page, holding it opens Wi-Fi — but
@@ -36,6 +36,8 @@ it does is also a touch gesture.
 | Coolant (°F) | PID 0x05 |
 | Oil temperature (°F) | PID 0x5C, which this car reports |
 | Intake air (°F) | PID 0x0F |
+| Speed (mph) | PID 0x0D, converted from km/h; carries a peak needle |
+| Tachometer (rpm) | PID 0x0C; carries a peak needle |
 | Battery (V) | `ATRV`, measured by the adapter; works with the engine off |
 
 **Press and hold for two seconds** on any of these opens the Wi-Fi settings page and starts the
